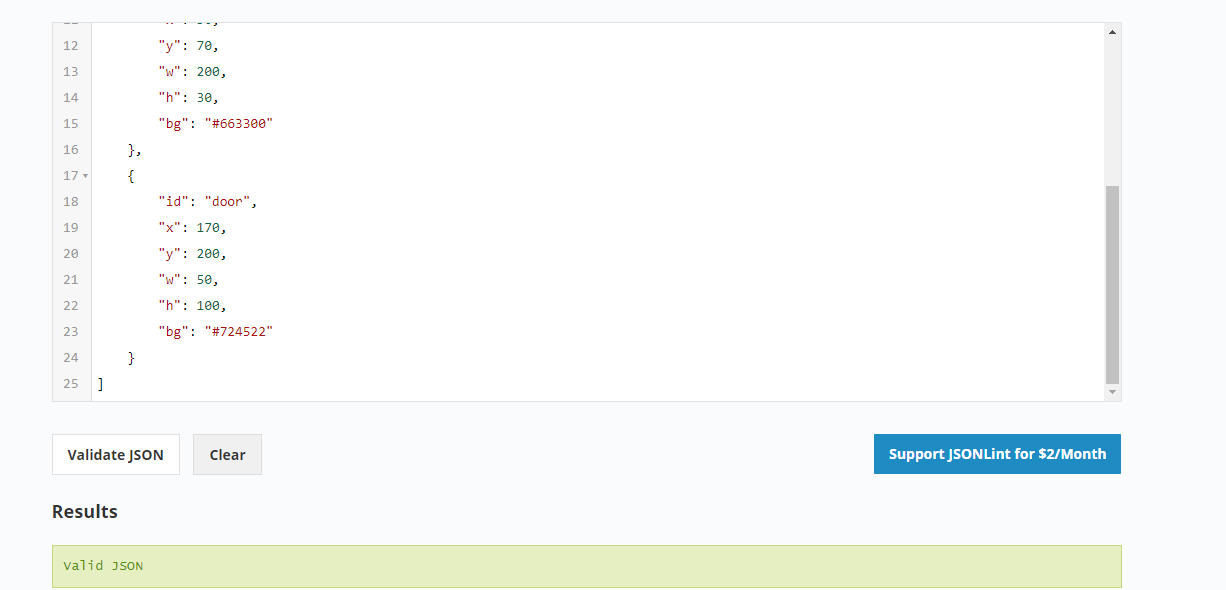
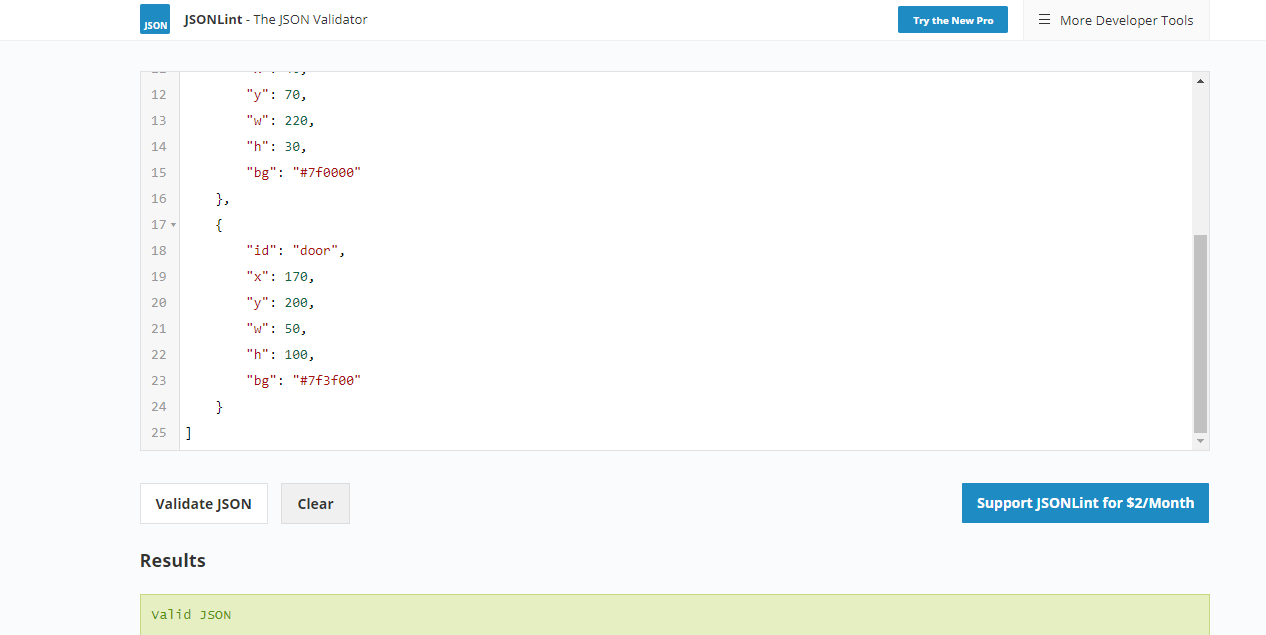
change colours of house, added new images for Json

diff --git a/Desktop/htmlCanvas/assignment/projectTwo/Json/json.html b/Desktop/htmlCanvas/assignment/projectTwo/Json/json.html
@@ -26,15 +26,15 @@
 		"y": 100, //y position
 		"w": 200, //box width
 		"h": 200, //box height
-		"bg": "#aa8c57"
+		"bg": "#ed821e"
 	},
 	{
 		"id": "roof", //id for roof
-		"x": 50,        //x position
+		"x": 40,        //x position
 		"y": 70,        //y position
-		"w": 200,       //box width
+		"w": 220,       //box width
 		"h": 30,        //box height
-		"bg": "#663300"
+		"bg": "#7f0000"
 	},
 	{
 		"id": "door", //id for door
@@ -42,7 +42,7 @@
 		"y": 200,       //y position
 		"w": 50,        //box width
 		"h": 100,       //box height
-		"bg": "#724522"
+		"bg": "#7f3f00"
 	}
 ];
                      
